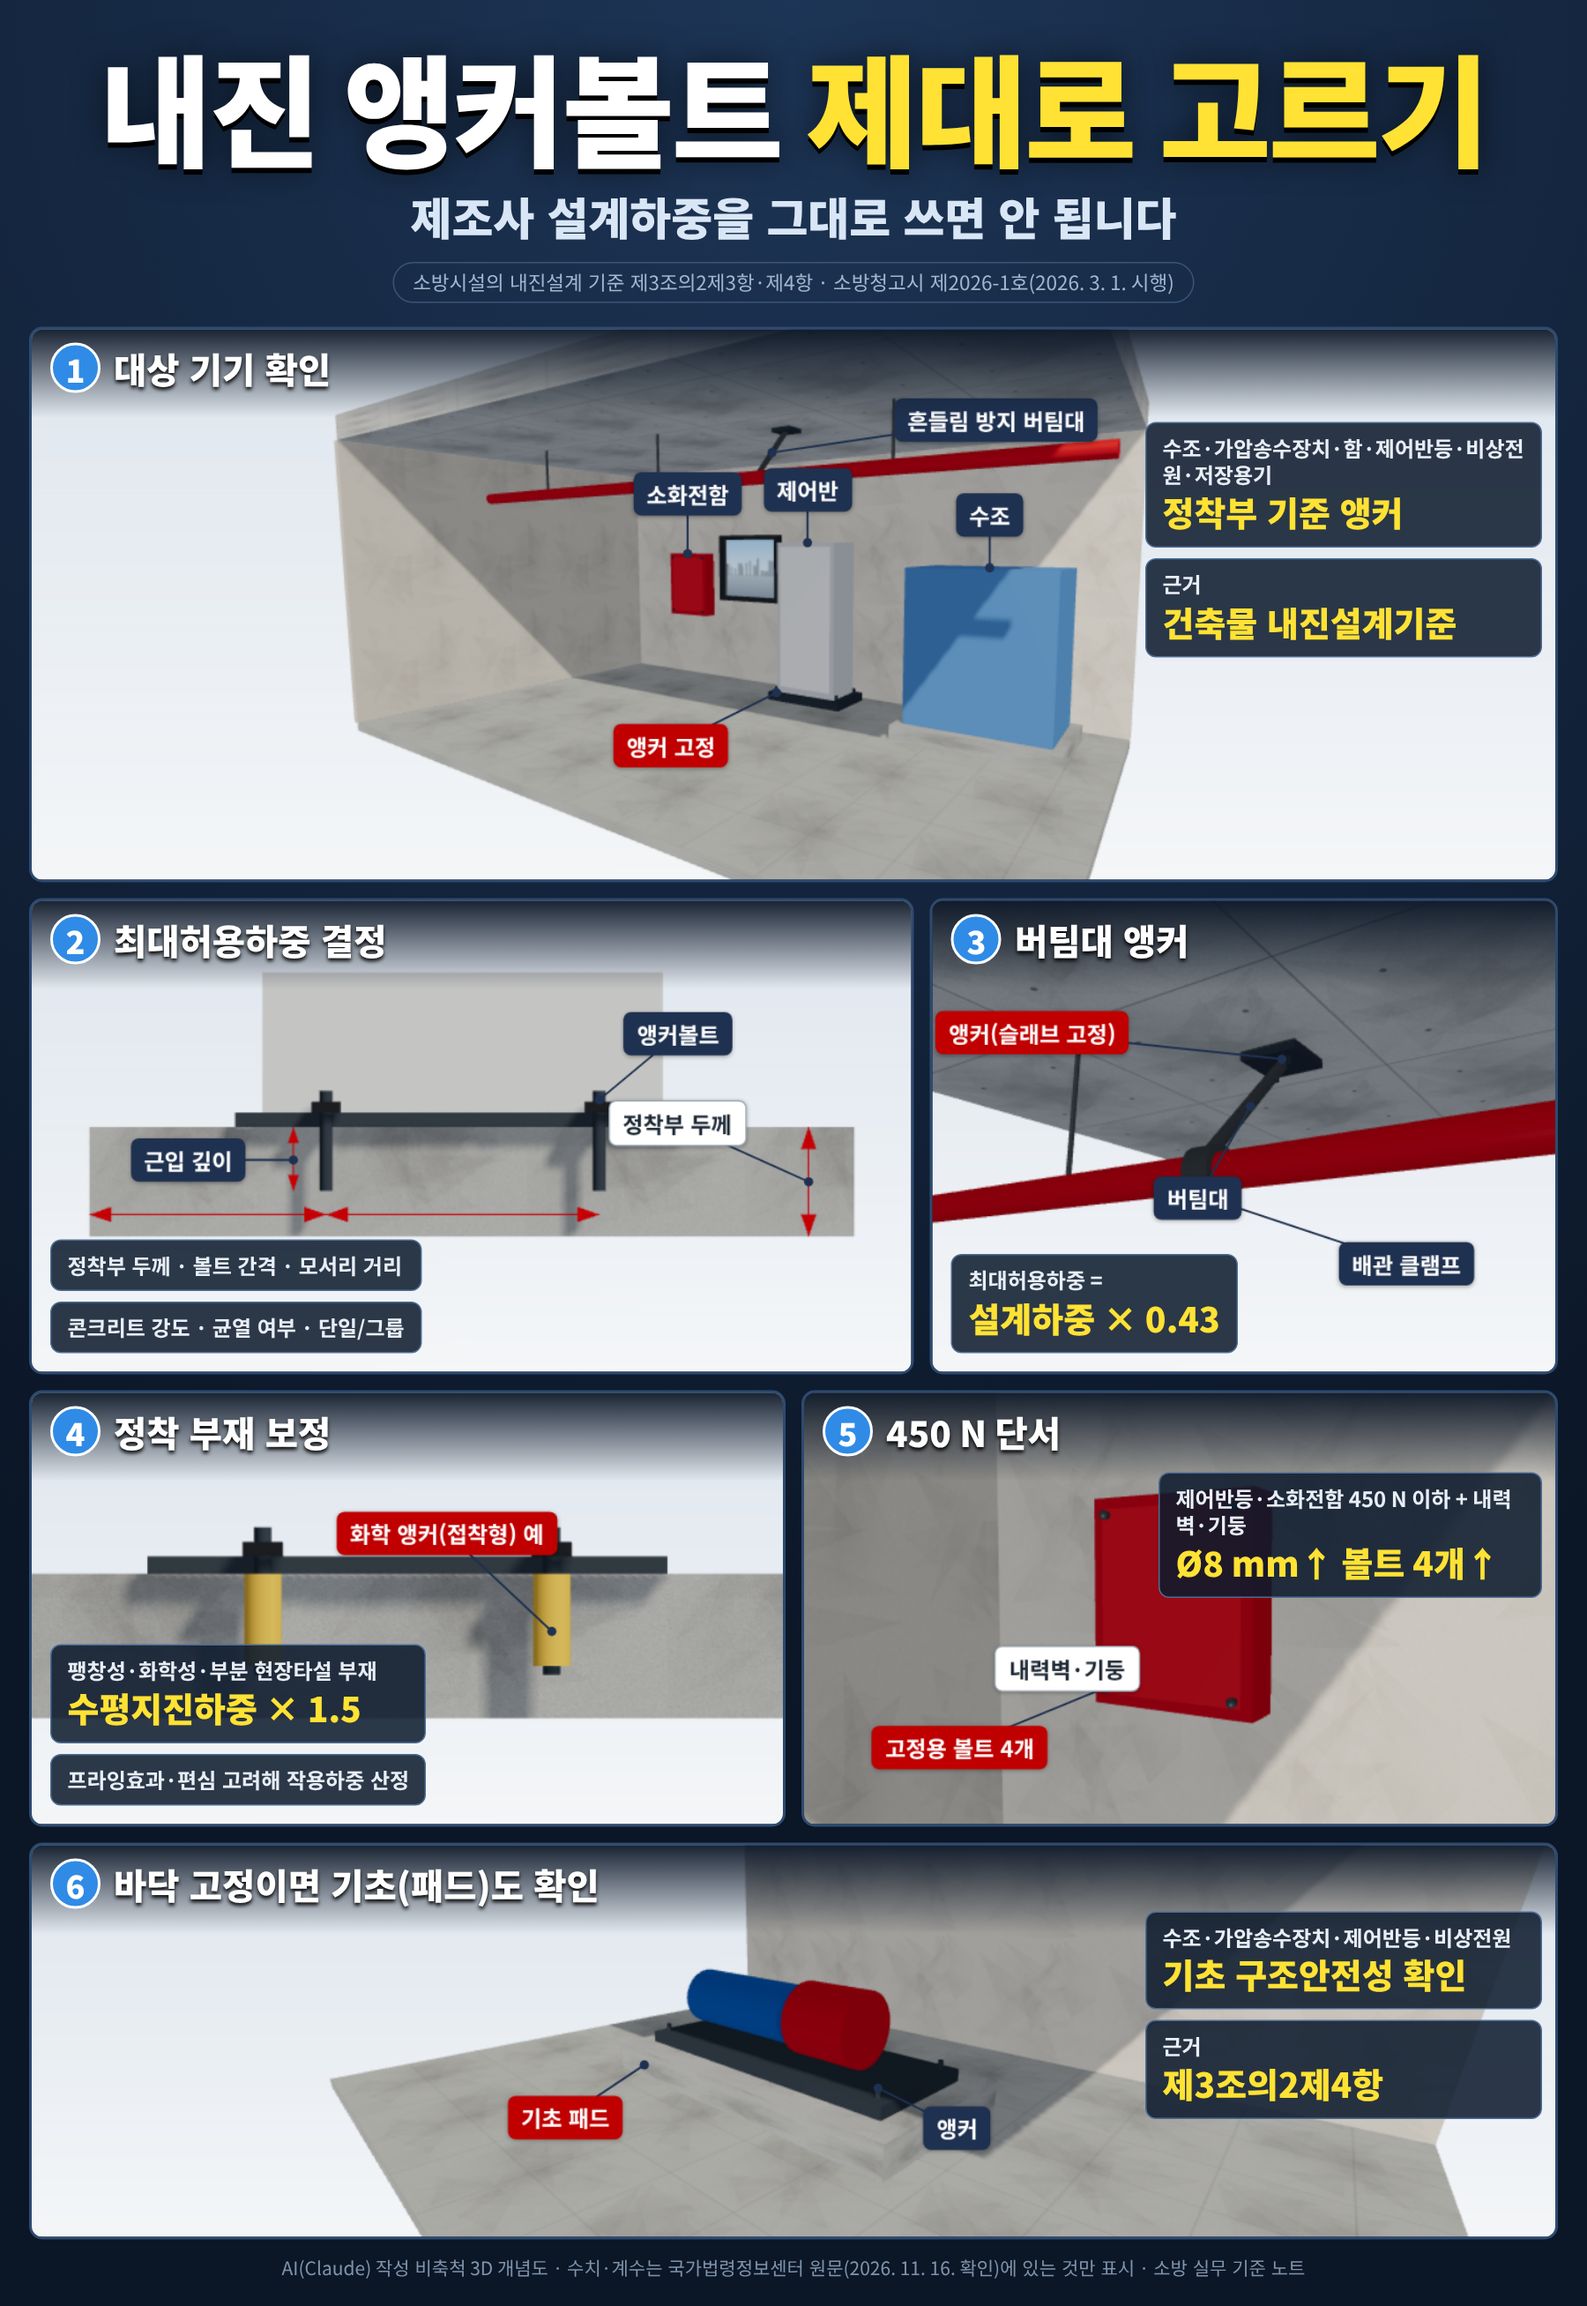
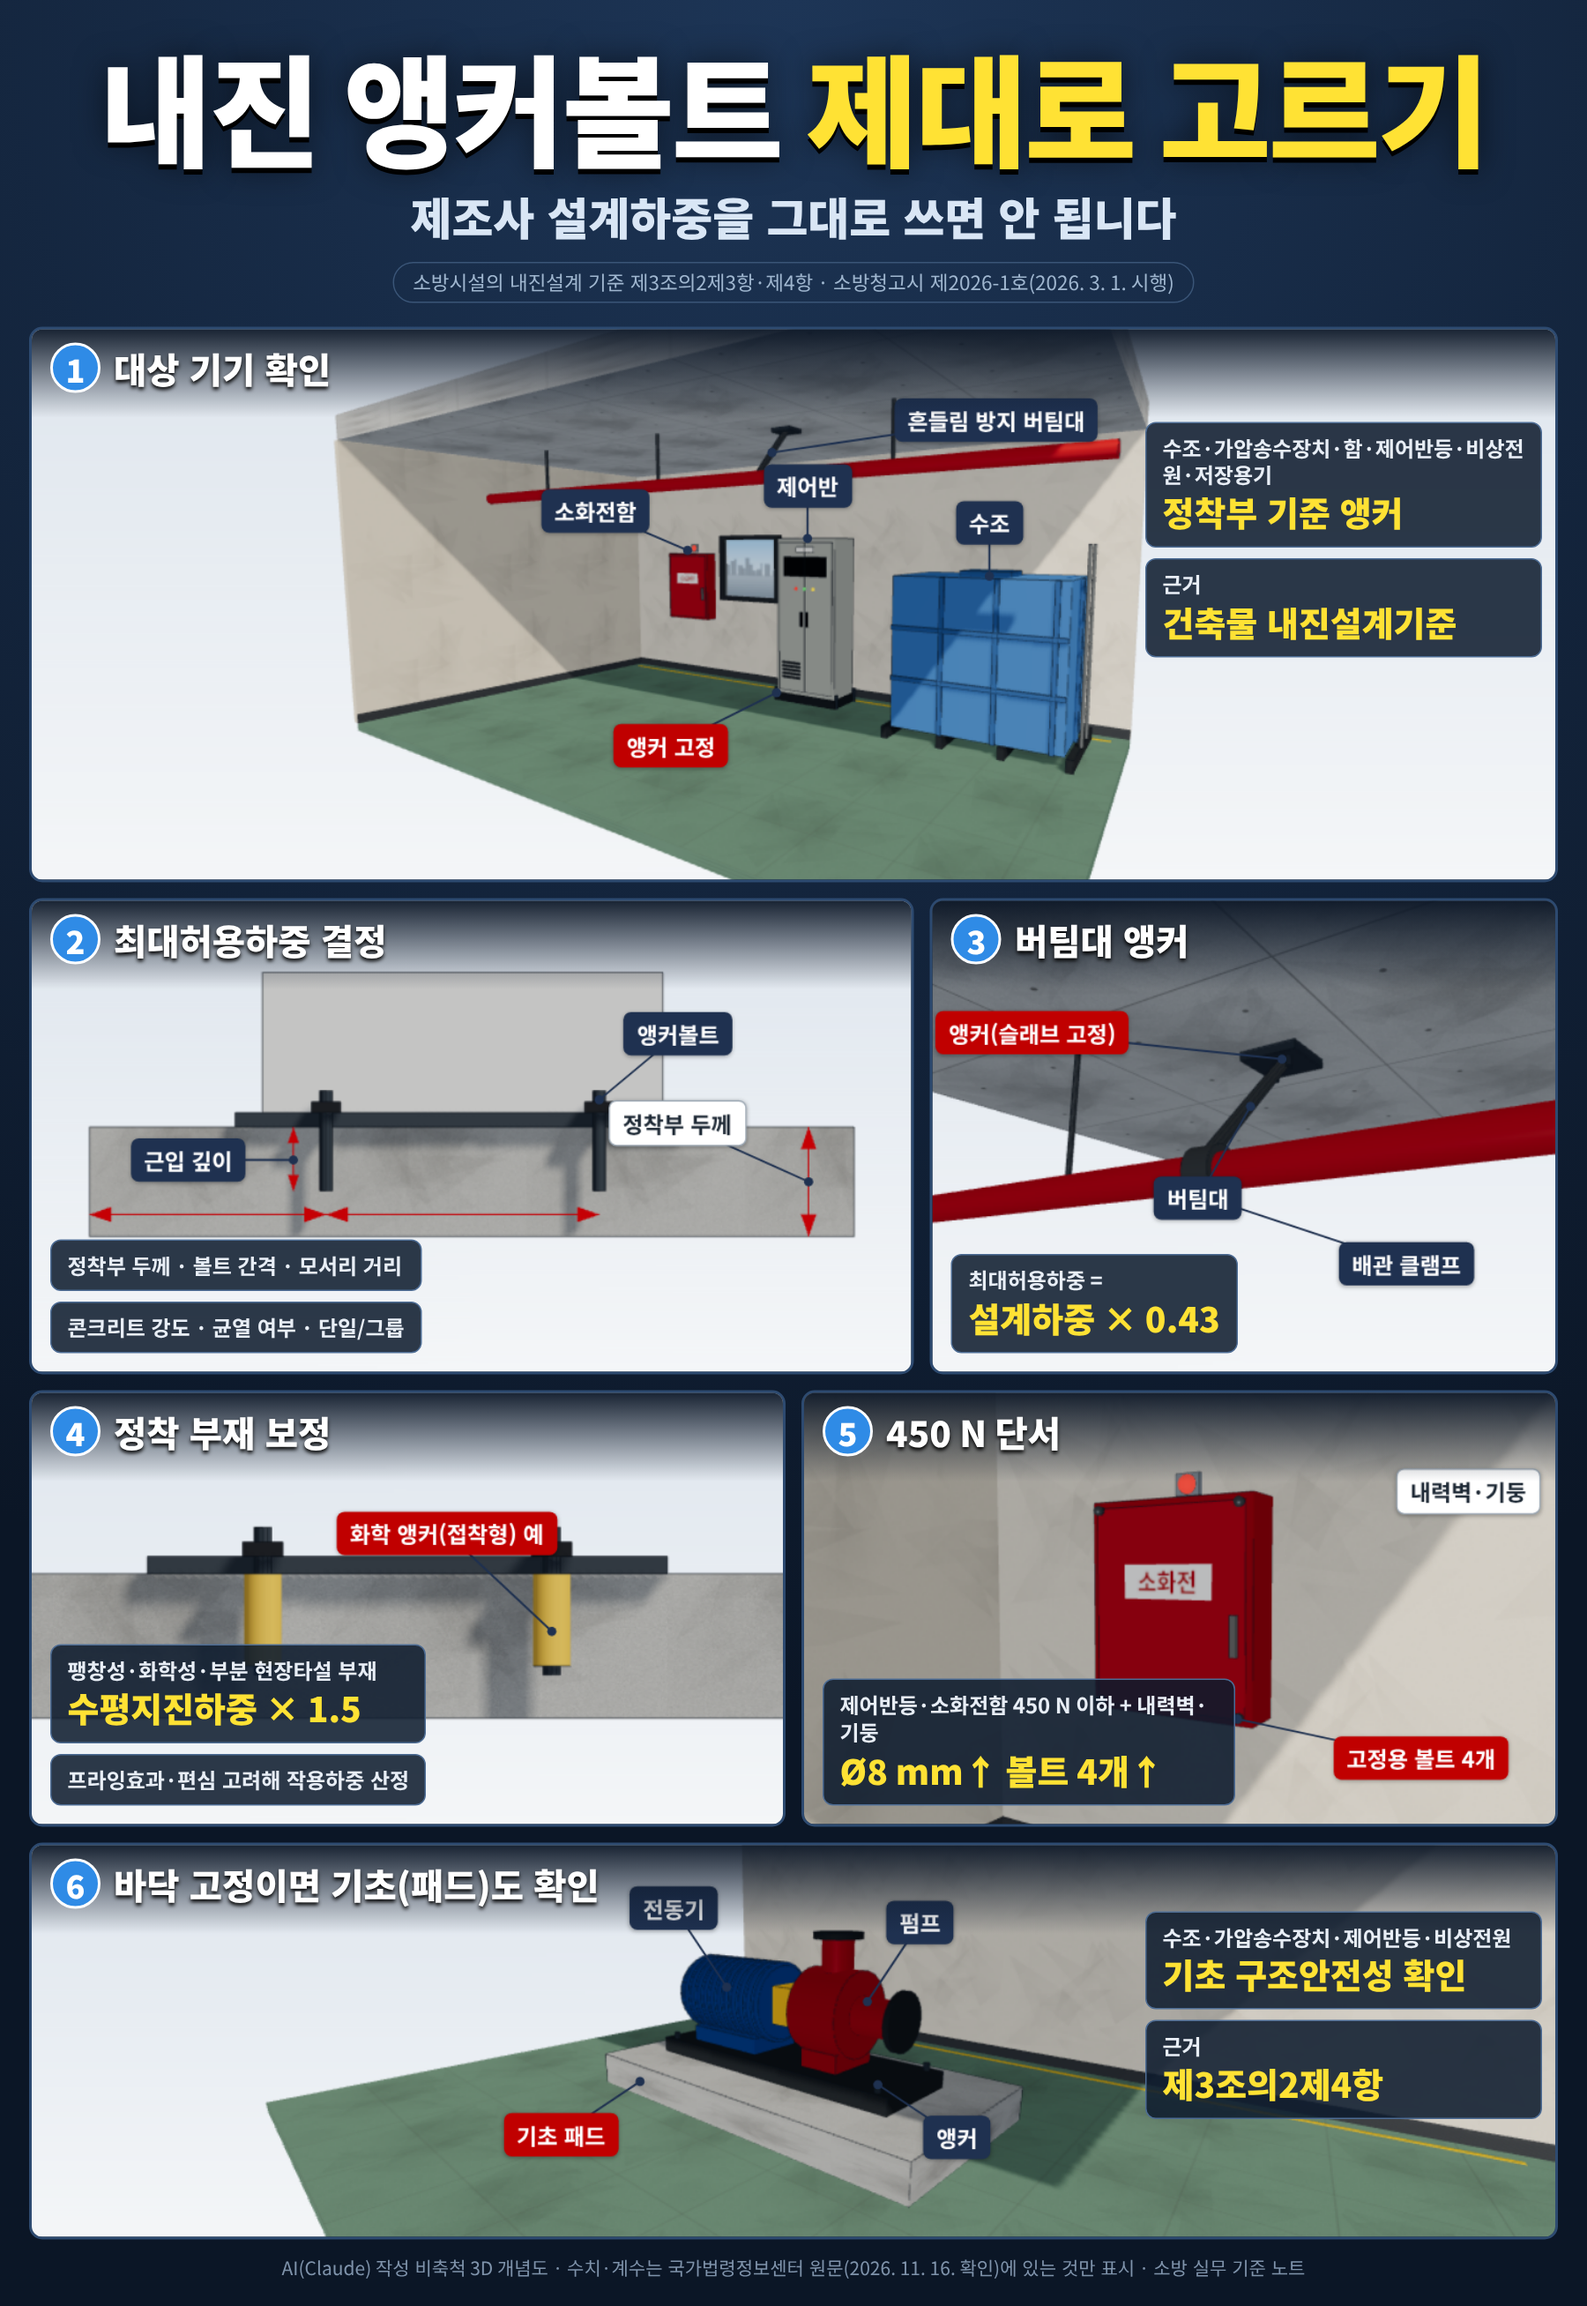
그림: 바닥·벽·기구 색·질감 구분, 외곽선, 실물형 장치(제어반·수조·펌프·소화전함)
Claude-Session: https://claude.ai/code/session_018ZF7Lg7p1URuKp1n5kERbJ

Changed region(s): [[0.1556, 0.6195, 0.9956, 0.9912], [0.2178, 0.1859, 0.7156, 0.4027], [0.84, 0.7434, 0.9644, 0.7744]]

diff --git a/_src/fig3d/scene.html b/_src/fig3d/scene.html
@@ -51,14 +51,17 @@ const M=(col,o={})=>new THREE.MeshStandardMaterial(Object.assign({color:col,roug
 const MAT={wall:M('#ffffff'),wall2:M('#f2f3f5'),ceil:M('#e4e7eb'),floor:M('#c9ced5'),slab:M('#dfe3e8',{emissive:'#8d97a2',emissiveIntensity:.4}),beam:M('#97a3b0',{emissive:'#55606c',emissiveIntensity:.4}),
  red:M('#e0443a',{roughness:.45}),brass:M('#c9a227',{metalness:.6,roughness:.35}),white:M('#fafafa',{roughness:.5}),
  steel:M('#8b949c',{metalness:.5,roughness:.4}),dark:M('#3b4652'),door:M('#b9a690'),green:M('#1e9e4a')};
-if(REAL){MAT.wall=M('#ffffff',{map:noiseTex('#d8d4cd',12,{blot:40,seed:3}),roughness:.9});MAT.wall2=M('#ffffff',{map:noiseTex('#c9c6c0',12,{blot:40,seed:5}),roughness:.9});
- MAT.floor=M('#ffffff',{map:noiseTex('#a9aeb0',14,{blot:60,tile:true,seed:9}),roughness:.55});
+if(REAL){MAT.wall=M('#ffffff',{map:noiseTex('#e8e2d6',8,{blot:30,seed:3}),roughness:.9});MAT.wall2=M('#ffffff',{map:noiseTex('#ddd6c8',8,{blot:30,seed:5}),roughness:.9});
+ MAT.floor=M('#ffffff',{map:noiseTex(S.floor_color||'#6f8f80',10,{blot:50,tile:true,seed:9}),roughness:.32,metalness:.05});
  MAT.slab=M('#ffffff',{map:noiseTex('#b7bbbe',22,{blot:80,form:true,seed:11}),roughness:.95});
  MAT.beam=M('#ffffff',{map:noiseTex('#8f979e',22,{blot:80,seed:13}),roughness:.95});
  MAT.concrete=M('#ffffff',{map:noiseTex('#a7abae',26,{blot:90,seed:17}),roughness:.95});
  MAT.red=M('#d1322a',{roughness:.35,metalness:.1});MAT.steel=M('#9aa3ab',{metalness:.75,roughness:.3});MAT.glass=M('#cfe6f7',{transparent:true,opacity:.28,roughness:.05,metalness:.2});}
 else{MAT.concrete=M('#9fa5ad');MAT.glass=M('#bcd4f0',{transparent:true,opacity:.35});}
 const V=a=>new THREE.Vector3(...a);
+const OUT=new THREE.LineBasicMaterial({color:'#1b232c',transparent:true,opacity:.55});
+function outlineFrom(n0){if(!REAL)return;for(let i=n0;i<sc.children.length;i++){const m=sc.children[i];if(!m.isMesh||!m.geometry||m.userData.noOutline)continue;
+ const e=new THREE.LineSegments(new THREE.EdgesGeometry(m.geometry,28),OUT);m.add(e)}}
 function add(m,cast=true){m.castShadow=cast;m.receiveShadow=true;sc.add(m);return m}
 function box(min,max,mat){const g=new THREE.BoxGeometry(max[0]-min[0],max[1]-min[1],max[2]-min[2]);
  if(mat&&mat.map&&mat.map.isCanvasTexture&&mat.map.wrapS===THREE.RepeatWrapping){const sx=max[0]-min[0],sy=max[1]-min[1],sz=max[2]-min[2];const u=Math.max(sx,sz)/1.2,v=Math.max(sy,Math.min(sx,sz))/1.2;mat=mat.clone();mat.map=mat.map.clone();mat.map.needsUpdate=true;mat.map.repeat.set(Math.max(u,.3),Math.max(v,.3));}
@@ -75,6 +78,8 @@ function texPanel(text,bg,fg,w,h){const cv=document.createElement('canvas');cv.w
  const t=new THREE.CanvasTexture(cv);t.colorSpace=THREE.SRGBColorSpace;return new THREE.MeshStandardMaterial({map:t,roughness:.6})}
 // ---- room ----
 if(S.room){const [x0,x1]=S.room.x,[y0,y1]=S.room.y,[z0,z1]=S.room.z,t=.08;
+ if(REAL){const BB=M('#4a4f55',{roughness:.6});box([x0,y0,z0],[x1,y0+.1,z0+.012],BB);if(S.room.left!==false)box([x0,y0,z0],[x0+.012,y0+.1,z1],BB);
+  const Y=M('#e3b51e',{roughness:.5});if(S.room.safety_line!==false){box([x0+.15,y0+.001,z0+.15],[x1-.15,y0+.004,z0+.2],Y);}}
  box([x0,y0-t,z0],[x1,y0,z1],MAT.floor);                       // floor
  box([x0,y0,z0-t],[x1,y1,z0],MAT.wall);                        // back wall
  if(S.room.left!==false) box([x0-t,y0,z0],[x0,y1,z1],MAT.wall2);// left wall
@@ -110,9 +115,41 @@ const DEV={
  smoke(p,o){const [x,y,z]=p,n=o.n||14,r=o.r||.35;let sd=o.seed||5;const rnd=()=>{sd=(sd*16807)%2147483647;return sd/2147483647};
   for(let i=0;i<n;i++){const m=new THREE.Mesh(new THREE.SphereGeometry(r*(.5+rnd()*.7),18,14),new THREE.MeshStandardMaterial({color:'#d9dcdf',transparent:true,opacity:.18+rnd()*.12,depthWrite:false,roughness:1}));
    m.position.set(x+(rnd()-.5)*r*4*(o.sx||1),y+(rnd()-.5)*r*1.2,z+(rnd()-.5)*r*4*(o.sz||1));sc.add(m)}},
+ control_panel(p,o){const [x,y,z]=p,w=o.w||.8,d=o.d||.45,h=o.h||1.9;const body=M(o.color||'#cfd3cc',{roughness:.45,metalness:.25}),dk=M('#2d343b');
+  box([x-w/2-.03,y,z-d/2-.03],[x+w/2+.03,y+.1,z+d/2+.03],dk);const n0=sc.children.length;box([x-w/2,y+.1,z-d/2],[x+w/2,y+.1+h,z+d/2],body);
+  const f=z+d/2;box([x-w/2+.03,y+.15,f],[x-.005,y+h+.05,f+.012],body);box([x+.005,y+.15,f],[x+w/2-.03,y+h+.05,f+.012],body);
+  [-1,1].forEach(sg=>box([x+sg*.04-.012,y+.95,f+.012],[x+sg*.04+.012,y+1.12,f+.04],M('#1f2328')));
+  for(let i=0;i<5;i++)box([x-w/2+.08,y+.3+i*.045,f+.012],[x-.06,y+.32+i*.045,f+.02],dk);
+  box([x-w/2+.1,y+h-.35,f+.012],[x+w/2-.1,y+h-.12,f+.016],M('#20262c',{roughness:.3,metalness:.4}));
+  ['#e0443a','#3cc35b','#f2c230'].forEach((c,i)=>{const s2=new THREE.Mesh(new THREE.SphereGeometry(.022,16,12),M(c,{emissive:c,emissiveIntensity:.6}));s2.position.set(x-.12+i*.12,y+h-.5,f+.02);add(s2)});
+  box([x-.12,y+h-.06,f+.012],[x+.12,y+h,f+.016],M('#f4f4f2'));outlineFrom(n0)},
+ tank(p,o){const [x0,y0,z0]=p,W=o.w||2,D=o.d||1.5,H=o.h||2;const c=M(o.color||'#4f86c6',{roughness:.5}),r=M(o.rib||'#3f6fa8',{roughness:.5});const n0=sc.children.length;
+  for(let i=0;i<4;i++)box([x0-.05+i*(W+.1)/3.0-.03,y0,z0-.05],[x0-.05+i*(W+.1)/3.0+.03,y0+.12,z0+D+.05],M('#2d343b'));
+  box([x0,y0+.12,z0],[x0+W,y0+.12+H,z0+D],c);
+  for(let a=.5;a<W;a+=.5)box([x0+a-.02,y0+.12,z0+D],[x0+a+.02,y0+.12+H,z0+D+.03],r);
+  for(let a=.5;a<H;a+=.5)box([x0,y0+.12+a-.02,z0+D],[x0+W,y0+.12+a+.02,z0+D+.03],r);
+  for(let a=.5;a<D;a+=.5)box([x0+W,y0+.12,z0+a-.02],[x0+W+.03,y0+.12+H,z0+a+.02],r);
+  const st=M('#9aa3ab',{metalness:.7,roughness:.3});[z0+D*.35,z0+D*.65].forEach(zz=>cyl([x0+W+.08,y0+.12,zz],[x0+W+.08,y0+.12+H+.3,zz],.015,st));
+  for(let a=.3;a<H+.2;a+=.3)cyl([x0+W+.08,y0+.12+a,z0+D*.35],[x0+W+.08,y0+.12+a,z0+D*.65],.012,st);
+  box([x0+W*.35,y0+.12+H,z0+D*.3],[x0+W*.65,y0+.17+H,z0+D*.7],r);outlineFrom(n0)},
+ pump_set(p,o){const [x,y,z]=p,L=o.l||2.2;const dk=M('#2d343b'),mo=M(o.motor||'#2f6db5',{roughness:.4,metalness:.3}),pc=M('#c8302a',{roughness:.35,metalness:.3}),gd=M('#f0b81c',{roughness:.5});const n0=sc.children.length;
+  box([x,y,z-.35],[x+L,y+.12,z+.35],dk);
+  cyl([x+.15,y+.5,z],[x+1.05,y+.5,z],.28,mo);for(let a=.2;a<1.0;a+=.08)cyl([x+a,y+.5,z],[x+a+.025,y+.5,z],.305,mo,24);
+  box([x+.25,y+.12,z-.22],[x+.95,y+.24,z+.22],mo);cyl([x+.08,y+.5,z],[x+.15,y+.5,z],.2,dk);
+  box([x+1.05,y+.36,z-.13],[x+1.35,y+.64,z+.13],gd);
+  cyl([x+1.35,y+.5,z],[x+1.75,y+.5,z],.3,pc);box([x+1.4,y+.12,z-.2],[x+1.7,y+.25,z+.2],pc);
+  cyl([x+1.75,y+.5,z],[x+2.05,y+.5,z],.13,pc);disk([x+2.07,y+.5,z],.0,.0,pc);cyl([x+2.05,y+.5,z],[x+2.09,y+.5,z],.2,dk);
+  cyl([x+1.55,y+.78,z],[x+1.55,y+1.0,z],.11,pc);cyl([x+1.55,y+1.0,z],[x+1.55,y+1.04,z],.17,dk);outlineFrom(n0)},
+ hydrant_box(p,o){const [x,y,z]=p,w=o.w||.75,h=o.h||.95,d=o.d||.18;const rd=M('#c62f28',{roughness:.35,metalness:.2});const n0=sc.children.length;
+  box([x-w/2,y,z],[x+w/2,y+h,z+d],rd);box([x-w/2+.03,y+.03,z+d],[x+w/2-.03,y+h-.03,z+d+.012],M('#d8392f',{roughness:.3,metalness:.2}));
+  const f=new THREE.Mesh(new THREE.PlaneGeometry(w*.55,h*.16),texPanel('소화전','#ffffff','#c62f28',w*.55,h*.16));f.position.set(x,y+h*.62,z+d+.014);add(f,false);f.userData.noOutline=true;
+  box([x+w/2-.09,y+h*.3,z+d+.012],[x+w/2-.06,y+h*.48,z+d+.035],M('#d9d9d9',{metalness:.7,roughness:.3}));
+  const L=new THREE.Mesh(new THREE.SphereGeometry(.045,20,14,0,Math.PI*2,0,Math.PI/2),M('#e0443a',{emissive:'#e0443a',emissiveIntensity:.7}));L.rotation.x=Math.PI/2;L.position.set(x,y+h+.08,z+.03);add(L);
+  box([x-.06,y+h+.03,z],[x+.06,y+h+.13,z+.03],M('#9aa3ab'));outlineFrom(n0)},
  door(p,o){const [x,y,z]=p,w=o.w||.9,h=o.h||2.1;box([x-w/2,y,z],[x+w/2,y+h,z+.05],MAT.door)},
 };
 for(const o of (S.objects||[])){
+ const _n0=sc.children.length;
  const mat=o.color?(MAT[o.color]||M(o.color,o.opacity?{transparent:true,opacity:o.opacity}:{})):null;
  if(o.type==='box') box(o.min,o.max,mat||MAT.beam);
  else if(o.type==='beam') box(o.min,o.max,mat||MAT.beam);
@@ -126,6 +163,7 @@ for(const o of (S.objects||[])){
  else if(o.type==='plane'){box(o.min,o.max,mat||M('#bcd4f0',{transparent:true,opacity:.35}))}
  else if(DEV[o.type]){const n0=sc.children.length;DEV[o.type](o.pos,o);const k=o.s||1;
   if(k!==1){const P=V(o.pos);for(let i=n0;i<sc.children.length;i++){const m=sc.children[i];m.position.sub(P).multiplyScalar(k).add(P);m.scale.multiplyScalar(k);}}}
+ if(o.outline!==false&&!DEV[o.type]&&o.type!=='plane')outlineFrom(_n0);
 }
 // ---- dimensions: 3D line with arrows ----
 function proj(p){const v=V(p).project(cam);return[(v.x+1)/2*W,(1-v.y)/2*H]}

diff --git a/_src/POSTING_GUIDE.md b/_src/POSTING_GUIDE.md
@@ -86,6 +86,8 @@ meta 필드로 상단을 만든다(build.py가 자동 배치):
 - 장면 안 이름표는 장면 spec의 `labels`(3D 위치 기준)로 붙이고, 패널 숫자 박스(callouts)와 겹치지 않게 dx/dy·`callout_pos`(right/overlay)·`callout_top`을 조정한다. 렌더 PNG를 열어 겹침·잘림을 확인한다.
 - 숫자 박스에는 원문에서 확인한 수치·계수·조문만 쓴다. 남의 계정 이미지·로고·사진을 쓰지 않는다. 실사 사진처럼 보이게 꾸미지 말고 3D 개념도임을 표시한다.
 - 상세 그림(fig1·fig2 등 입체·단면)은 지금처럼 이어서 넣는다.
+- **바닥·벽·소방기구 구분(2026-11-16 사용자 지시):** `"style":"real"`에서 바닥은 녹회색 에폭시(타일 줄눈·안전선), 벽은 미색 도장 + 걸레받이, 천장은 노출 콘크리트(거푸집 자국)로 서로 다른 색·질감이 되게 하고, 기구는 진한 원색 + 외곽선(자동)으로 배경에서 떨어져 보이게 한다. 바닥색은 장면 spec의 `floor_color`로 바꿀 수 있다.
+- 실물 형상 장치(상세 부품 포함)를 우선 쓴다: `control_panel`(문·손잡이·환기구·표시등·계기창), `tank`(SMC 패널 리브·사다리·받침), `pump_set`(전동기 냉각핀·커플링 가드·펌프 케이싱·흡입/토출 플랜지), `hydrant_box`("소화전" 표시·손잡이·위치표시등), 그 밖에 `head_*`·감지기·유도등·`window`·`smoke`. 막대·상자로 대충 만들지 않는다.
 
 ### 공통
 - 그림은 공식 기준에서 확인한 거리·관계만 표시. "AI 작성 비축척 개념도"와 생략 항목 명시.
